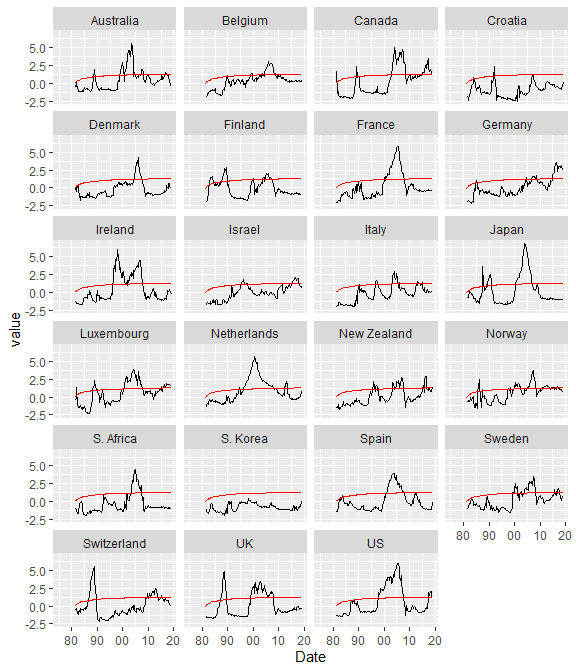
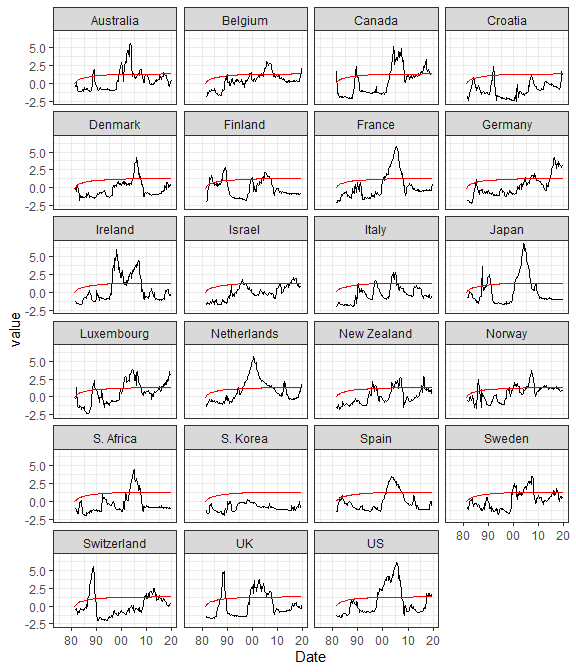
update to R 4.0.0 and made the necessary changes

diff --git a/README.md b/README.md
@@ -45,24 +45,24 @@ This is a basic example which shows you how to download the data:
 
 # Raw Data
 ihpdr::ihpd_get()
-#> # A tibble: 4,272 x 6
+#> # A tibble: 4,320 x 6
 #>    Date       country     hpi  rhpi   pdi  rpdi
 #>    <date>     <chr>     <dbl> <dbl> <dbl> <dbl>
-#>  1 1975-01-01 Australia   7.6  39.1  14.1  72.2
-#>  2 1975-04-01 Australia   7.7  38.5  14.4  71.4
-#>  3 1975-07-01 Australia   8    38.6  14.7  70.6
-#>  4 1975-10-01 Australia   8.3  37.7  15.2  69.6
-#>  5 1976-01-01 Australia   8.6  37.9  15.5  69.1
-#>  6 1976-04-01 Australia   8.8  38.1  15.9  69.5
-#>  7 1976-07-01 Australia   9.1  38.3  17.1  71.2
-#>  8 1976-10-01 Australia   9.3  37.9  17.4  71.1
-#>  9 1977-01-01 Australia   9.5  37.9  17.7  70.7
-#> 10 1977-04-01 Australia   9.7  37.7  18.0  70.2
-#> # ... with 4,262 more rows
+#>  1 1975-01-01 Australia  7.60  39.1  14.1  72.2
+#>  2 1975-04-01 Australia  7.74  38.5  14.4  71.4
+#>  3 1975-07-01 Australia  8.04  38.6  14.7  70.6
+#>  4 1975-10-01 Australia  8.29  37.7  15.2  69.6
+#>  5 1976-01-01 Australia  8.58  37.9  15.5  69.2
+#>  6 1976-04-01 Australia  8.83  38.1  15.9  69.5
+#>  7 1976-07-01 Australia  9.07  38.3  17.1  71.2
+#>  8 1976-10-01 Australia  9.25  37.9  17.4  71.1
+#>  9 1977-01-01 Australia  9.48  37.9  17.7  70.7
+#> 10 1977-04-01 Australia  9.66  37.7  18.0  70.2
+#> # ... with 4,310 more rows
 
 # Exuberance Indicators ~ bsadf
 ihpdr::ihpd_get("bsadf")
-#> # A tibble: 16,284 x 6
+#> # A tibble: 16,560 x 6
 #>    Date       country   type    lag value  crit
 #>    <date>     <chr>     <chr> <dbl> <dbl> <dbl>
 #>  1 1975-01-01 Australia rhpi      1    NA    NA
@@ -75,7 +75,7 @@ ihpdr::ihpd_get("bsadf")
 #>  8 1976-10-01 Australia rhpi      1    NA    NA
 #>  9 1977-01-01 Australia rhpi      1    NA    NA
 #> 10 1977-04-01 Australia rhpi      1    NA    NA
-#> # ... with 16,274 more rows
+#> # ... with 16,550 more rows
 
 # Get the release dates
 ihpdr::ihpd_release_dates()
@@ -116,7 +116,8 @@ bsadf_data %>%
   geom_line(aes(Date, value), size = 0.7) +
   geom_line(aes(Date, crit), col = "red", size = 0.7) +
   scale_x_date(date_labels = "%y") +
-  facet_wrap(~country, ncol = 4)
+  facet_wrap(~country, ncol = 4) +
+  theme_bw()
 ```
 
 <img src="man/figures/README-exuber-ind-1.png" width="100%" />

diff --git a/cran-comments.md b/cran-comments.md
@@ -1,6 +1,6 @@
 ## Test environments
 
-* local OS MS install, R 3.6.3
+* local OS MS install, R 4.0.0
 * Continuous Integration
   * Ubuntu Trusty 14.04 on travis-ci (devel and release)
   * macOS on travis-ci (devel and release)
